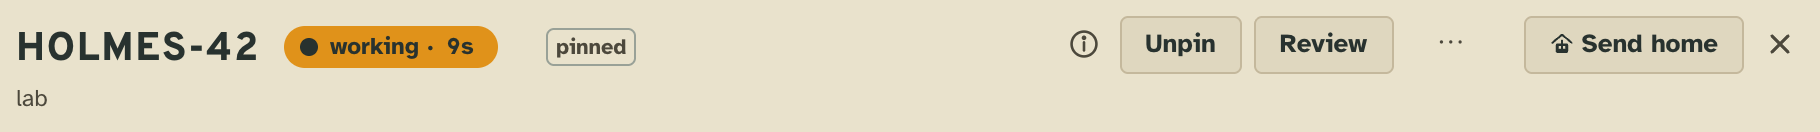
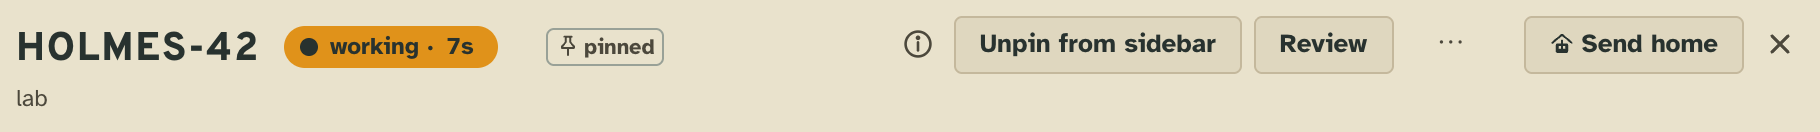
Pins' badge shows a pin glyph
The pinned badge names client/pin.svg, the extension's own glyph, as
its icon.

diff --git a/extensions/pins/server.ts b/extensions/pins/server.ts
@@ -27,7 +27,7 @@ const start: Start = (ctx) => {
         const pin = (own.streams[PINS] as PinsState)[card.id]
         const call = { session: card.id }
         return pin
-          ? { badges: [{ label: 'pinned', tone: 'quiet', hint: pin.note || 'pinned to come back to' }], actions: [{ verb: `${ctx.provides}/unpin`, call }] }
+          ? { badges: [{ label: 'pinned', tone: 'quiet', hint: pin.note || 'pinned to come back to', icon: 'pin.svg' }], actions: [{ verb: `${ctx.provides}/unpin`, call }] }
           : { actions: [{ verb: `${ctx.provides}/pin`, call }] }
       },
       board: (_board: Board, { own, callsignOf }: FoldCtx): Part => ({ x: { pins: pinsOf(own.streams[PINS] as PinsState, callsignOf) } }),

diff --git a/kb/entities/decisions/pins.md b/kb/entities/decisions/pins.md
@@ -59,9 +59,10 @@ page offers it from the start. A pin has to be listed once its worker went home,
 - **The read** `list` (CLI word `list`) answers every pin, newest first, with its callsign, floor, session and note
   ([`pinsOf`](ref:hub/extensions/pins/pins.ts#pinsOf)), and prints one line each.
 - **The board fold** puts the same list at `board.x.pins.pins`, callsigns resolved through `callsignOf`, so archived
-  workers keep their name. The **card fold** adds a `pinned` badge, the note as its hint, and the Pin to
-  sidebar or Unpin from sidebar action, which the page draws on the worker's row, its header and its ⋯ menu, and the
-  palette lists. The labels name the sidebar so they don't read as the layout's own "Pin to the row".
+  workers keep their name. The **card fold** adds a `pinned` badge, the note as its hint and its own pin glyph
+  (`client/pin.svg`) as its icon, and the Pin to sidebar or Unpin from sidebar action, which the page draws on the
+  worker's row, its header and its ⋯ menu, and the palette lists. The labels name the sidebar so they don't read as
+  the layout's own "Pin to the row".
 - **The section** `pins/section` ([`mount`](ref:hub/extensions/pins/client/section.ts#mount)) is a `list`-scale view
   on the board, drawn in the page's `board.sections` ([[sidebar-regions]]): one row per pin with the floor's chip,
   the note and the age. A row displays `card:<session>`, which the page finds in the archive once the worker went

diff --git a/extensions/pins/README.md b/extensions/pins/README.md
@@ -16,7 +16,7 @@ is pinned.
 | --- | --- |
 | ![The Pinned section with three workers](shots/section-light.png) | ![The Pinned section with three workers](shots/section-dark.png) |
 
-**A worker's card** says `pinned`, its note on hover, on its row in the sidebar and in its header. The header and the
+**A worker's card** says `pinned` beside a pin, its note on hover, on its row in the sidebar and in its header. The header and the
 worker's ⋯ menu offer Pin to sidebar, or Unpin from sidebar once it is pinned, and so does the palette.
 
 | Light | Dark |
